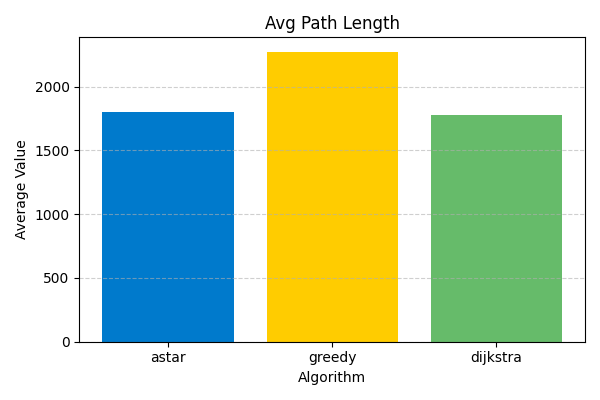
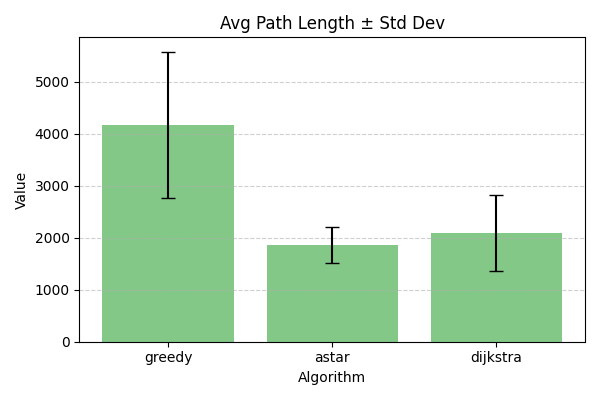
.

diff --git a/core/compute_metrics.py b/core/compute_metrics.py
@@ -1,14 +1,15 @@
 import csv
 from collections import defaultdict
+from statistics import mean, stdev
 
-runs_needed = 10
+runs_needed = 12 #12 for each algo, but total is 36.
 data = defaultdict(list)
 
 with open("tower_metrics.csv", "r") as f:
     reader = csv.DictReader(f)
     rows = list(reader)
 
-    for row in rows:  # <-- use rows here
+    for row in rows:
         algo = row["algorithm"]
         data[algo].append({
             "paths_completed": int(row["paths_completed"]),
@@ -16,6 +17,7 @@ with open("tower_metrics.csv", "r") as f:
             "total_path_length": int(row["total_path_length"]),
             "paths_attempted": int(row["paths_attempted"])
         })
+
 summary = []
 
 for algo, metrics_list in data.items():
@@ -23,28 +25,36 @@ for algo, metrics_list in data.items():
         print(f"{algo}: Only {len(metrics_list)} runs logged, need {runs_needed} for full average")
         continue
 
-    avg_paths_completed = sum(m["paths_completed"] for m in metrics_list) / len(metrics_list)
-    avg_nodes_expanded = sum(m["nodes_expanded"] for m in metrics_list) / len(metrics_list)
-    avg_path_length = sum(m["total_path_length"] for m in metrics_list) / len(metrics_list)
-    avg_paths_attempted = sum(m["paths_attempted"] for m in metrics_list) / len(metrics_list)
+    # Extract lists of values for each metric
+    paths_completed_list = [m["paths_completed"] for m in metrics_list]
+    nodes_expanded_list = [m["nodes_expanded"] for m in metrics_list]
+    path_length_list = [m["total_path_length"] for m in metrics_list]
+    paths_attempted_list = [m["paths_attempted"] for m in metrics_list]
 
     summary.append({
-            "algorithm": algo,
-            "avg_paths_completed": avg_paths_completed,
-            "avg_nodes_expanded": avg_nodes_expanded,
-            "avg_path_length": avg_path_length,
-            "avg_paths_attempted": avg_paths_attempted
-        })
+        "algorithm": algo,
+        "avg_paths_completed": mean(paths_completed_list),
+        "std_paths_completed": stdev(paths_completed_list),
+        "avg_nodes_expanded": mean(nodes_expanded_list),
+        "std_nodes_expanded": stdev(nodes_expanded_list),
+        "avg_path_length": mean(path_length_list),
+        "std_path_length": stdev(path_length_list),
+        "avg_paths_attempted": mean(paths_attempted_list),
+        "std_paths_attempted": stdev(paths_attempted_list)
+    })
 
-    # Save summary
-    with open("metrics_summary.csv", "w", newline="") as f:
-        writer = csv.DictWriter(f, fieldnames=summary[0].keys())
-        writer.writeheader()
-        writer.writerows(summary)
+# Save summary with rounded values
+with open("metrics_summary.csv", "w", newline="") as f:
+    fieldnames = summary[0].keys()
+    writer = csv.DictWriter(f, fieldnames=fieldnames)
+    writer.writeheader()
+    for row in summary:
+        writer.writerow({k: round(v, 2) if isinstance(v, float) else v for k, v in row.items()})
 
-    print("\n✅ Averages saved to metrics_summary.csv")
-    print(f"--- {algo} ---")
-    print(f"Average paths completed: {avg_paths_completed}")
-    print(f"Average nodes expanded: {avg_nodes_expanded}")
-    print(f"Average path length: {avg_path_length}")
-    print(f"Average paths attempted: {avg_paths_attempted}")
+print("\n✅ Summary (mean ± std) saved to metrics_summary.csv")
+for row in summary:
+    print(f"\n--- {row['algorithm']} ---")
+    print(f"Paths completed: {row['avg_paths_completed']:.2f} ± {row['std_paths_completed']:.2f}")
+    print(f"Nodes expanded: {row['avg_nodes_expanded']:.2f} ± {row['std_nodes_expanded']:.2f}")
+    print(f"Path length: {row['avg_path_length']:.2f} ± {row['std_path_length']:.2f}")
+    print(f"Paths attempted: {row['avg_paths_attempted']:.2f} ± {row['std_paths_attempted']:.2f}")

diff --git a/core/plot_metrics.py b/core/plot_metrics.py
@@ -5,9 +5,13 @@ import matplotlib.pyplot as plt
 algorithms = []
 metrics = {
     "avg_paths_completed": [],
+    "std_paths_completed": [],
     "avg_nodes_expanded": [],
+    "std_nodes_expanded": [],
     "avg_path_length": [],
-    "avg_paths_attempted": []
+    "std_path_length": [],
+    "avg_paths_attempted": [],
+    "std_paths_attempted": []
 }
 
 with open("metrics_summary.csv", "r") as f:
@@ -17,16 +21,38 @@ with open("metrics_summary.csv", "r") as f:
         for key in metrics:
             metrics[key].append(float(row[key]))
 
-# Plot each metric
-for metric_name, values in metrics.items():
+''' each bar means, Mean value ± standard deviation
+   ─┬─   ← top cap (limits of that range)
+    │
+    │    ← vertical line (variation range)
+    │
+   ─┴─   ← bottom cap (limit of that range)
+'''
+plot_pairs = [
+    ("avg_paths_completed", "std_paths_completed"),
+    ("avg_nodes_expanded", "std_nodes_expanded"),
+    ("avg_path_length", "std_path_length"),
+    ("avg_paths_attempted", "std_paths_attempted")
+]
+
+colors = ["#007acc", "#ffcc00", "#66bb6a", "#ff7043"]
+
+for i, (avg_key, std_key) in enumerate(plot_pairs):
     plt.figure(figsize=(6, 4))
-    plt.bar(algorithms, values, color=["#007acc", "#ffcc00", "#66bb6a", "#ff7043"])
-    plt.title(metric_name.replace("_", " ").title())
+    plt.bar(
+        algorithms,
+        metrics[avg_key],
+        yerr=metrics[std_key],
+        capsize=5,
+        color=colors[i % len(colors)],
+        alpha=0.8
+    )
+    plt.title(avg_key.replace("_", " ").title() + " ± Std Dev")
     plt.xlabel("Algorithm")
-    plt.ylabel("Average Value")
+    plt.ylabel("Value")
     plt.grid(axis="y", linestyle="--", alpha=0.6)
     plt.tight_layout()
-    plt.savefig(f"{metric_name}.png")
+    plt.savefig(f"{avg_key}.png")
     plt.show()
 
-print("✅ Charts generated for all metrics!")
+print("✅ Charts generated with error bars for all metrics!")
